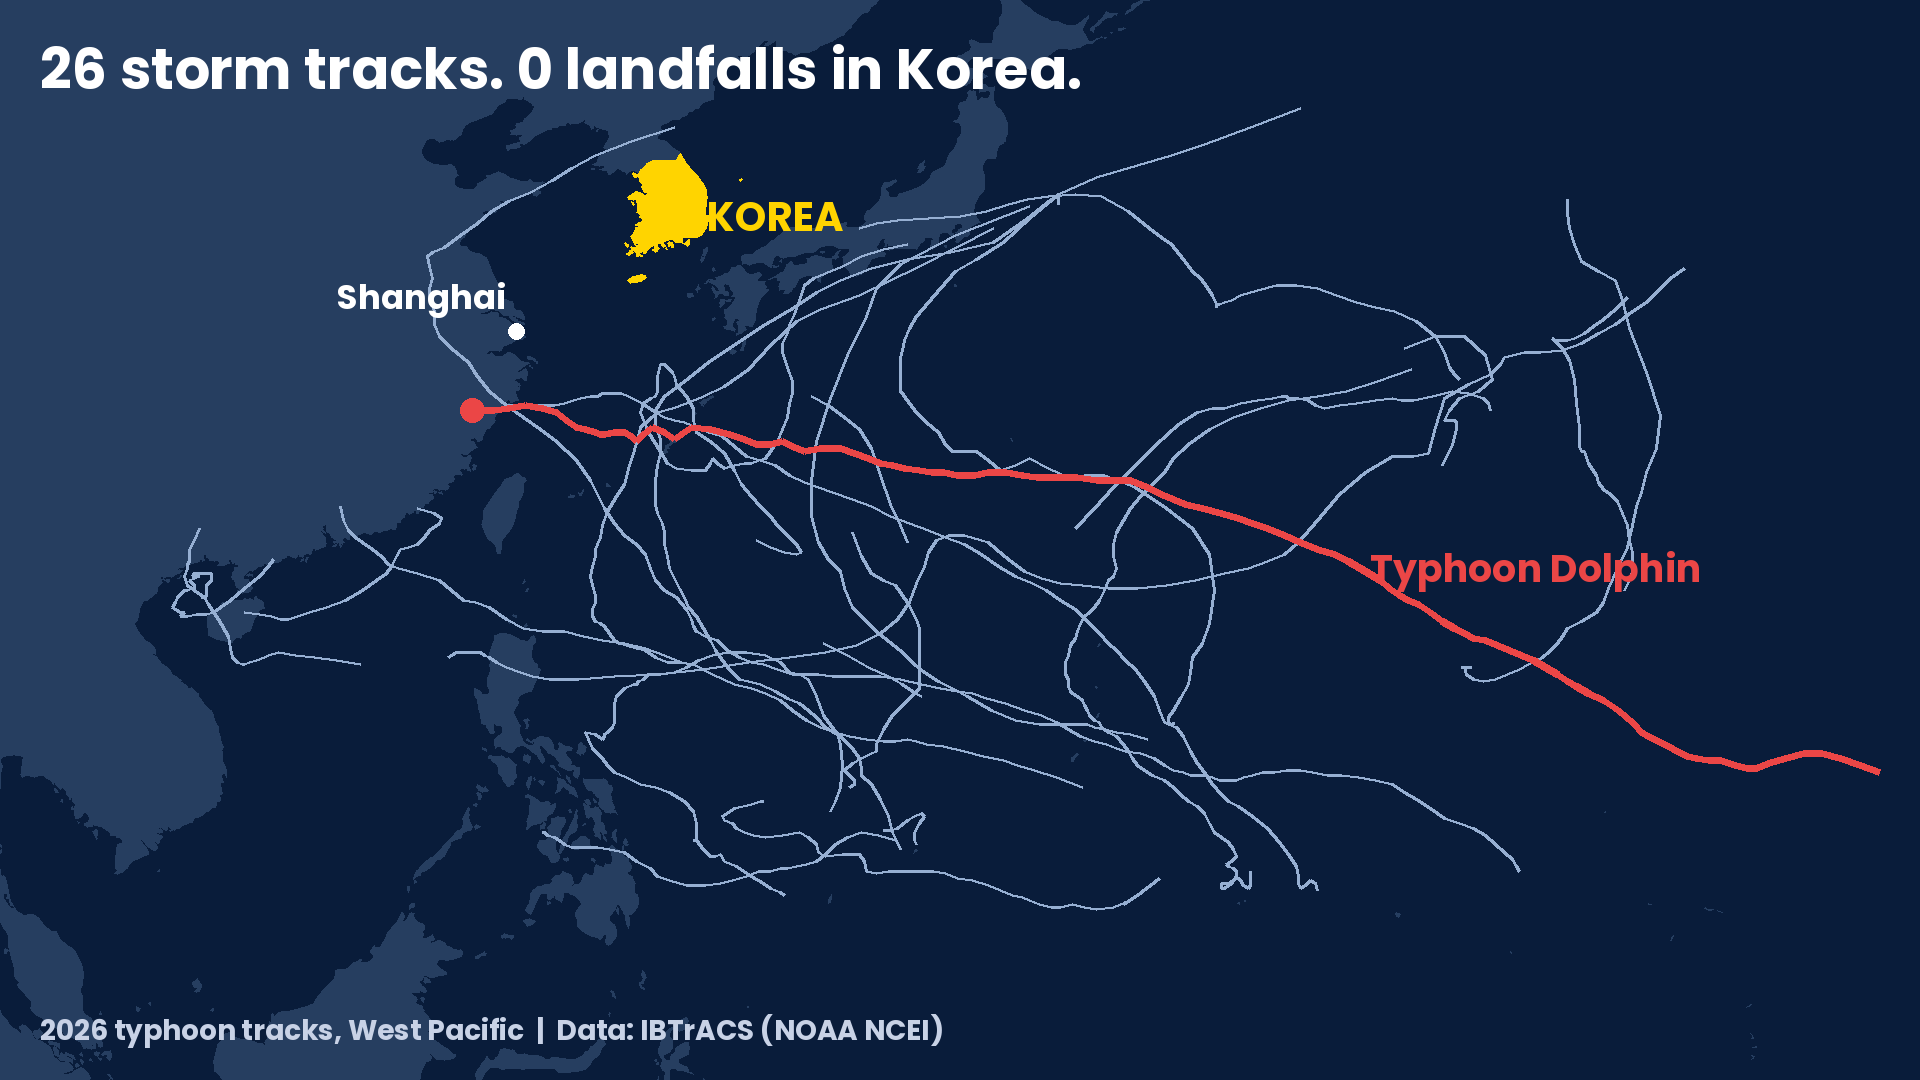
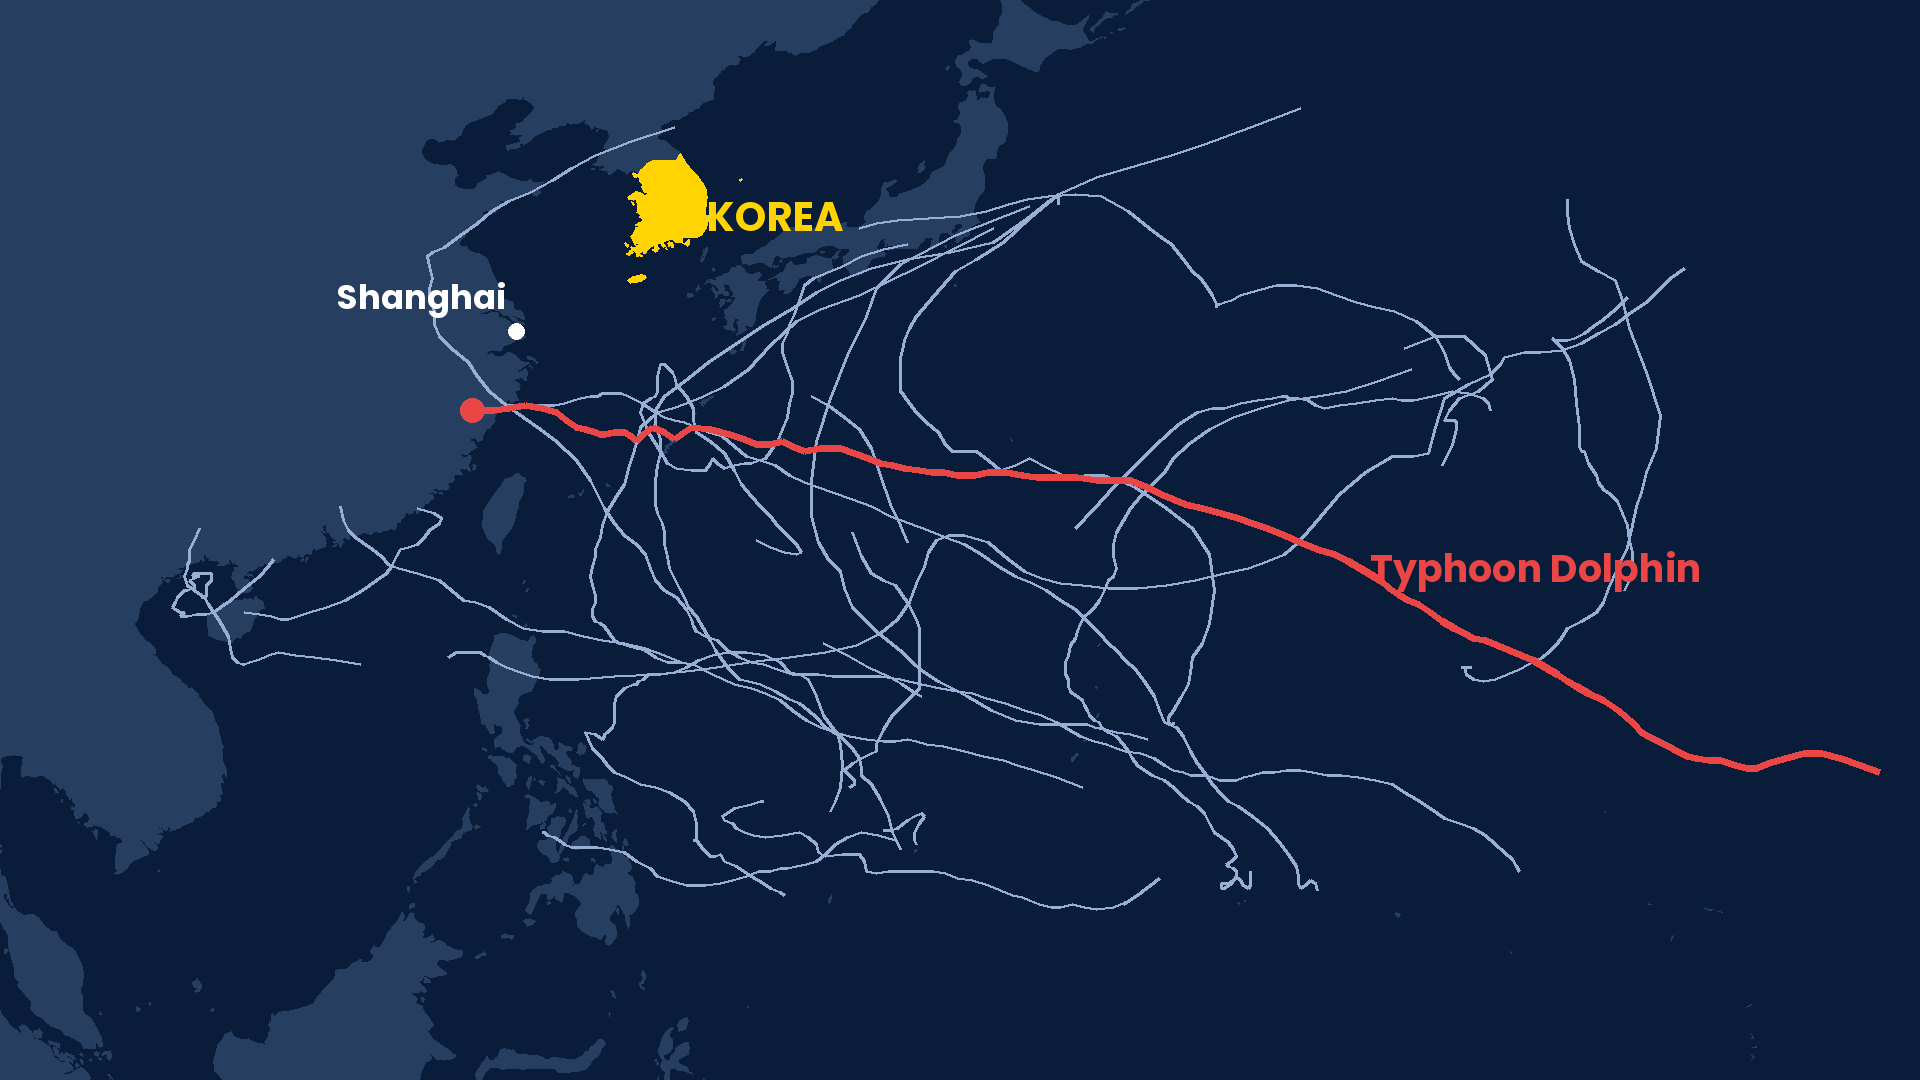
Renderer: several moving screens per line (Ken Burns, crossfades), count-up number cards, panel lines over visuals
Claude-Session: https://claude.ai/code/session_012jEvTguAr4B53d6a7QWY9d

Changed region(s): [[0.0, 0.0306, 0.5625, 0.0917], [0.0, 0.9472, 0.5, 0.9778]]

diff --git a/korea-decoded/prototypes/episode.py b/korea-decoded/prototypes/episode.py
@@ -29,7 +29,8 @@ DESK_Y = dg.DESK_Y
 SHOTS = ("anchor_solo", "anchor_screen", "screen_full", "two_shot", "speaker_close", "wide")
 ANCHOR_CAMERA = {"anchor_solo", "anchor_screen", "screen_full"}  # the panel is not in this camera's view
 SCREEN_OTS = (300, 250, 1060, 678)  # explainer box beside the anchor (view coords, 16:9)
-SCREEN_FULL = (300, 130, 1620, 873)  # big, below the top tags, above the lower third, inside the Shorts crop
+SCREEN_FULL = (300, 128, 1620, 885)  # big, below the top tags, above the lower third, inside the Shorts crop;
+# the bottom edge also hides the nameplates on the desk
 
 
 def plan_shots(lines, anchor="anchor"):
@@ -43,6 +44,8 @@ def plan_shots(lines, anchor="anchor"):
             shot = ln["shot"]
         elif who == anchor and ln.get("screen"):
             shot = "screen_full" if ln.get("big") else "anchor_screen"
+        elif ln.get("screen"):  # a panel line over a visual: the voice plays over the full screen
+            shot = "screen_full"
         elif who == anchor:
             talking_to_panel = i > 0 and lines[i - 1]["who"] != anchor
             shot = "speaker_close" if talking_to_panel else "anchor_solo"
@@ -91,26 +94,125 @@ def fit_cover(img, w, h):
     return img.crop((l, t, l + w, t + h))
 
 
-def screen_layer(img, rect, alpha, label, credit):
-    """Explainer box (white frame, label bar, credit line) drawn at rect with global alpha."""
-    layer = Image.new("RGBA", (W, H), (0, 0, 0, 0))
-    if alpha < 0.02:
-        return layer
+KB_SECONDS = 7.0  # Ken Burns: how long a slow push/pan takes to reach its end point
+FADE = 0.3  # crossfade between screens inside one line
+
+
+def ease(u):
+    u = min(max(u, 0.0), 1.0)
+    return u * u * (3 - 2 * u)
+
+
+def prepare_screen(key, spec):
+    """Loads one screen: a picture (with baked-in text overlays) or a number card."""
+    out = {**spec, "key": key}
+    if "card" in spec:
+        return out
+    img = Image.open(spec["image"]).convert("RGB")
+    img = fit_cover(img, 1650, 929)  # a bit bigger than the full-size box, room for the slow push
+    if spec.get("overlays"):
+        d = ImageDraw.Draw(img)
+        for o in spec["overlays"]:
+            d.text((o["x"] * img.width, o["y"] * img.height), o["text"], font=nr.font(o.get("size", 44)),
+                   fill=o.get("color", nr.WHITE), anchor=o.get("anchor", "mm"),
+                   stroke_width=o.get("stroke", 6), stroke_fill=o.get("stroke_color", nr.NAVY))
+    out["img"] = img
+    # direction of the slow move: explicit, or picked from the key so neighbours differ
+    moves = ("in", "out", "left", "right")
+    out["kb"] = spec.get("kb", moves[sum(map(ord, key)) % 4])
+    return out
+
+
+def ken_burns(src, w, h, u, move):
+    """Crop of src for progress u (0..1): push in, pull out, or pan, then scaled to w x h."""
+    u = ease(u)
+    sw, sh = src.size
+    if move == "in":
+        z, fx = 1.0 + 0.14 * u, 0.5
+    elif move == "out":
+        z, fx = 1.14 - 0.14 * u, 0.5
+    elif move == "left":
+        z, fx = 1.12, 0.62 - 0.24 * u
+    else:
+        z, fx = 1.12, 0.38 + 0.24 * u
+    cw = min(sw, sh * w / h) / z
+    ch = cw * h / w
+    x0 = (sw - cw) * fx
+    y0 = (sh - ch) * 0.5
+    return src.resize((w, h), Image.BILINEAR, box=(x0, y0, x0 + cw, y0 + ch))
+
+
+def fmt_number(v, st):
+    dec = st.get("decimals", 0)
+    txt = f"{v:,.{dec}f}"
+    return f"{st.get('prefix', '')}{txt}{st.get('suffix', '')}"
+
+
+def card_image(card, w, h, t):
+    """Number card on the brand navy: title, then stats that count up one after another."""
+    img = Image.new("RGB", (w, h), nr.BRAND_NAVY)
+    d = ImageDraw.Draw(img)
+    s = w / 1320  # layout was designed at full-screen size
+    if card.get("title"):
+        d.text((w / 2, 70 * s), card["title"], font=nr.font(int(40 * s)), fill=nr.YELLOW, anchor="mm")
+    stats = card["stats"]
+    top, bottom = (140 if card.get("title") else 60) * s, h - 50 * s
+    row = (bottom - top) / len(stats)
+    for k, st in enumerate(stats):
+        u = ease((t - 0.25 - 0.45 * k) / 1.1)
+        if u <= 0:
+            continue
+        cy = top + row * (k + 0.5)
+        big = int(min(row * 0.55, 150 * s))
+        value = st["value"] * u if isinstance(st["value"], (int, float)) else st["value"]
+        text = fmt_number(value, st) if isinstance(value, (int, float)) else value
+        d.text((w / 2, cy - row * 0.12), text, font=nr.font(big), fill=nr.WHITE, anchor="mm")
+        if st.get("label"):
+            d.text((w / 2, cy + big * 0.55), st["label"], font=nr.font(int(34 * s)), fill=(190, 200, 225),
+                   anchor="mm")
+    return img
+
+
+def screen_content(scr, w, h, t_local):
+    if "card" in scr:
+        return card_image(scr["card"], w, h, t_local)
+    return ken_burns(scr["img"], w, h, t_local / KB_SECONDS, scr["kb"])
+
+
+def screen_piece(content, rect, alpha, label, credit):
+    """Explainer box (white frame, label bar, credit line) as one RGBA piece and its position."""
     x0, y0, x1, y1 = (int(round(v)) for v in rect)
-    d = ImageDraw.Draw(layer)
-    d.rectangle((x0 - 8, y0 - 8, x1 + 8, y1 + 8), fill=nr.WHITE)
-    layer.paste(fit_cover(img, x1 - x0, y1 - y0).convert("RGBA"), (x0, y0))
-    if label and y0 > 200:  # the label bar would cover the top tags when the box is full size
+    w, h = x1 - x0, y1 - y0
+    top = 60 if (label and y0 > 200) else 8  # the label bar would cover the top tags when full size
+    piece = Image.new("RGBA", (w + 16 + 400, h + 16 + top - 8 + 50), (0, 0, 0, 0))
+    d = ImageDraw.Draw(piece)
+    ox, oy = 8, top
+    d.rectangle((0, oy - 8, w + 16, oy + h + 8), fill=nr.WHITE)
+    piece.paste(content.resize((w, h), Image.BILINEAR) if content.size != (w, h) else content, (ox, oy))
+    if top > 8:
         f = nr.font(28)
-        d.rectangle((x0 - 8, y0 - 52, x0 + d.textlength(label, font=f) + 30, y0 - 8), fill=nr.YELLOW)
-        d.text((x0 + 10, y0 - 30), label, font=f, fill=nr.BLACK, anchor="lm")
+        d.rectangle((0, 0, d.textlength(label, font=f) + 38, 44), fill=nr.YELLOW)
+        d.text((18, 22), label, font=f, fill=nr.BLACK, anchor="lm")
     if credit:
-        d.text((x0, y1 + 30), credit, font=nr.font(22), fill=(190, 200, 225), anchor="lm")
+        d.text((ox, oy + h + 30), credit, font=nr.font(22), fill=(190, 200, 225), anchor="lm")
     if alpha < 0.999:
-        a = np.asarray(layer).copy()
+        a = np.asarray(piece).copy()
         a[..., 3] = (a[..., 3] * alpha).astype(np.uint8)
-        layer = Image.fromarray(a)
-    return layer
+        piece = Image.fromarray(a)
+    return piece, (x0 - 8, y0 - top)
+
+
+def screen_at(ln, t):
+    """(current screen key, seconds it has been up, previous key, crossfade progress) inside one line.
+    A line's "screen" is one key or a list; "screen_split" gives the switch points as fractions."""
+    keys = ln["screen"] if isinstance(ln["screen"], list) else [ln["screen"]]
+    span = max(ln["end"] - ln["start"], 0.1)
+    cuts = ln.get("screen_split") or [k / len(keys) for k in range(1, len(keys))]
+    starts = [ln["start"] - 0.15] + [ln["start"] + c * span for c in cuts]
+    k = max(i for i, s0 in enumerate(starts) if t >= s0 or i == 0)
+    since = t - starts[k]
+    prev = keys[k - 1] if k > 0 and since < FADE else None
+    return keys[k], since, prev, since / FADE
 
 
 def broadcast_overlay(scene):
@@ -170,11 +272,28 @@ def ticker_strip(items):
     return strip, tw
 
 
+def estimate_words(lines):
+    """Caption timing from the script: each line's words spread over its audio, weighted by length."""
+    words = []
+    for ln in lines:
+        toks = ln["text"].split()
+        if not toks:
+            continue
+        span = ln["end"] - ln["start"]
+        weights = [len(w) + 2 for w in toks]
+        total, acc = sum(weights), 0
+        for w, wt in zip(toks, weights):
+            s0 = ln["start"] + span * acc / total
+            acc += wt
+            words.append({"w": w, "s": s0, "e": ln["start"] + span * acc / total})
+    return words
+
+
 def main():
     scene = json.load(open(sys.argv[1]))
     puppets = {k: dg.Puppet(v) for k, v in scene["characters"].items()}
     anchor_key = scene.get("anchor", "anchor")
-    screens = {k: {**v, "img": Image.open(v["image"]).convert("RGB")} for k, v in scene.get("screens", {}).items()}
+    screens = {k: prepare_screen(k, v) for k, v in scene.get("screens", {}).items()}
 
     # Timeline: lines back to back with a short gap, one audio track.
     gap = scene.get("gap", 0.35)
@@ -202,7 +321,7 @@ def main():
         e = nr.envelope(ln["samples"], int(len(ln["samples"]) / 16000 * FPS))
         envs[ln["who"]][i0:i0 + len(e)] = e[: max(0, n - i0)]
 
-    words = scene.get("words") or nr.transcribe(wav)
+    words = scene.get("words") or estimate_words(lines)
     groups, cur = [], []
     for w in words:
         cur.append(w)
@@ -287,7 +406,6 @@ def main():
 
     lp = ff(scene["out_long"], W, H)
     sp = ff(scene["out_short"], SW, SH, s_from) if s_from is not None else None
-    box_cache = {}
     cam = cam_target(lines[0], 0)
     rect, alpha = list(SCREEN_OTS), 0.0
     shown_screen, prev_line = None, None
@@ -309,10 +427,14 @@ def main():
 
         # explainer screen: slides between beside-anchor and full frame, fades when not used
         if ln.get("screen") and ln["shot"] in ("anchor_screen", "screen_full"):
-            shown_screen = screens[ln["screen"]]
+            key, since, prev_key, fade = screen_at(ln, t)
+            shown_screen = (key, since, prev_key, fade)
             goal, goal_a = (SCREEN_FULL if ln["shot"] == "screen_full" else SCREEN_OTS), 1.0
         else:
             goal, goal_a = rect, 0.0
+            if shown_screen is not None:  # keep the last picture moving while it fades out
+                key, since, prev_key, fade = shown_screen
+                shown_screen = (key, since + 1 / FPS, None, 1.0)
         rect = [r + (g - r) * 0.2 for r, g in zip(rect, goal)]
         alpha += (goal_a - alpha) * (0.3 if goal_a else 0.5)
         if not anchor_cam:
@@ -340,12 +462,16 @@ def main():
         view = world.crop((int(cx - cw / 2), int(cy - ch / 2), int(cx + cw / 2), int(cy + ch / 2))).resize(
             (W, H), Image.BILINEAR)
         if shown_screen is not None and alpha > 0.02:
-            key = (id(shown_screen), tuple(round(v) for v in rect), round(alpha, 2))
-            if key not in box_cache:  # the box only changes while it slides or fades
-                box_cache.clear()
-                box_cache[key] = bands(screen_layer(shown_screen["img"], rect, alpha, shown_screen.get("label", ""),
-                                                    shown_screen.get("credit", "")))
-            paste_bands(view, box_cache[key])
+            key, since, prev_key, fade = shown_screen
+            scr = screens[key]
+            w_box, h_box = int(round(rect[2] - rect[0])), int(round(rect[3] - rect[1]))
+            content = screen_content(scr, w_box, h_box, since)
+            if prev_key is not None and fade < 1:
+                old_scr = screens[prev_key]
+                content = Image.blend(screen_content(old_scr, w_box, h_box, since + KB_SECONDS * 0.5), content,
+                                      ease(fade))
+            piece, xy = screen_piece(content, rect, alpha, scr.get("label", ""), scr.get("credit", ""))
+            view.paste(piece, xy, piece)
         paste_bands(view, over)
 
         if sp is not None and s_from <= t <= s_to:

diff --git a/korea-decoded/tests/test_episode_render.py b/korea-decoded/tests/test_episode_render.py
@@ -37,3 +37,33 @@ def test_split_fills_topic_ticker_and_cast():
     assert set(scenes[1]["characters"]) == {"anchor"}  # only who appears, plus the anchor
     assert set(scenes[2]["characters"]) == {"anchor", "chef"}
     assert scenes[1]["out_long"] == "ep3_s2_long.mp4"
+
+
+def test_a_panel_line_with_a_visual_plays_over_the_full_screen():
+    lines = [{"who": "anchor"}, {"who": "panel", "screen": "s1"}]
+    assert episode.plan_shots(lines) == ["anchor_solo", "screen_full"]
+
+
+def test_screens_inside_one_line_switch_in_order_and_crossfade():
+    ln = {"screen": ["a", "b", "c"], "start": 10.0, "end": 16.0}
+    assert episode.screen_at(ln, 10.5)[0] == "a"
+    key, since, prev, fade = episode.screen_at(ln, 12.1)  # b starts at 12.0
+    assert (key, prev) == ("b", "a") and 0 < fade < 1
+    assert episode.screen_at(ln, 15.9)[:3:2] == ("c", None)
+    split = {"screen": ["a", "b"], "screen_split": [0.25], "start": 0.0, "end": 8.0}
+    assert episode.screen_at(split, 2.5)[0] == "b"
+
+
+def test_number_card_counts_up_and_formats():
+    assert episode.fmt_number(568800, {}) == "568,800"
+    assert episode.fmt_number(94.8, {"decimals": 1, "suffix": "%"}) == "94.8%"
+    card = {"title": "BY THE NUMBERS", "stats": [{"value": 100, "label": "x"}]}
+    before, after = episode.card_image(card, 660, 371, 0.0), episode.card_image(card, 660, 371, 3.0)
+    assert before.size == (660, 371) and before.tobytes() != after.tobytes()
+
+
+def test_caption_timing_is_spread_over_each_line():
+    lines = [{"text": "Hello, world.", "start": 1.0, "end": 2.0}, {"text": "Bye", "start": 3.0, "end": 3.5}]
+    words = episode.estimate_words(lines)
+    assert [w["w"] for w in words] == ["Hello,", "world.", "Bye"]
+    assert words[0]["s"] == 1.0 and abs(words[1]["e"] - 2.0) < 1e-9 and words[2]["s"] == 3.0

diff --git a/korea-decoded/episodes/ep01/screens/typhoon/make_track_map.py b/korea-decoded/episodes/ep01/screens/typhoon/make_track_map.py
@@ -46,6 +46,5 @@ ex,ey=xy(*dol[-1]); d.ellipse((ex-12,ey-12,ex+12,ey+12),fill=DOL)
 sx,sy=xy(121.5,31.2); d.ellipse((sx-8,sy-8,sx+8,sy+8),fill="white"); d.text((sx-10,sy-58),"Shanghai",font=F(34),fill="white",anchor="ra")
 kx,ky=xy(127.8,36.3); d.text((kx+40,ky-20),"KOREA",font=F(40),fill=KOR)
 dx,dy=xy(*dol[len(dol)//3]); d.text((dx-60,dy-70),"Typhoon Dolphin",font=F(38),fill=DOL)
-d.text((40,H-70),"2026 typhoon tracks, West Pacific  |  Data: IBTrACS (NOAA NCEI)",font=F(28),fill=(200,210,230))
-d.text((40,30),"26 storm tracks. 0 landfalls in Korea.",font=F(56),fill="white")
+# Title and source go on the screen's label bar and credit line, where a slow zoom can't crop them.
 im.save("track_map.png"); print("ok", len(tracks))
